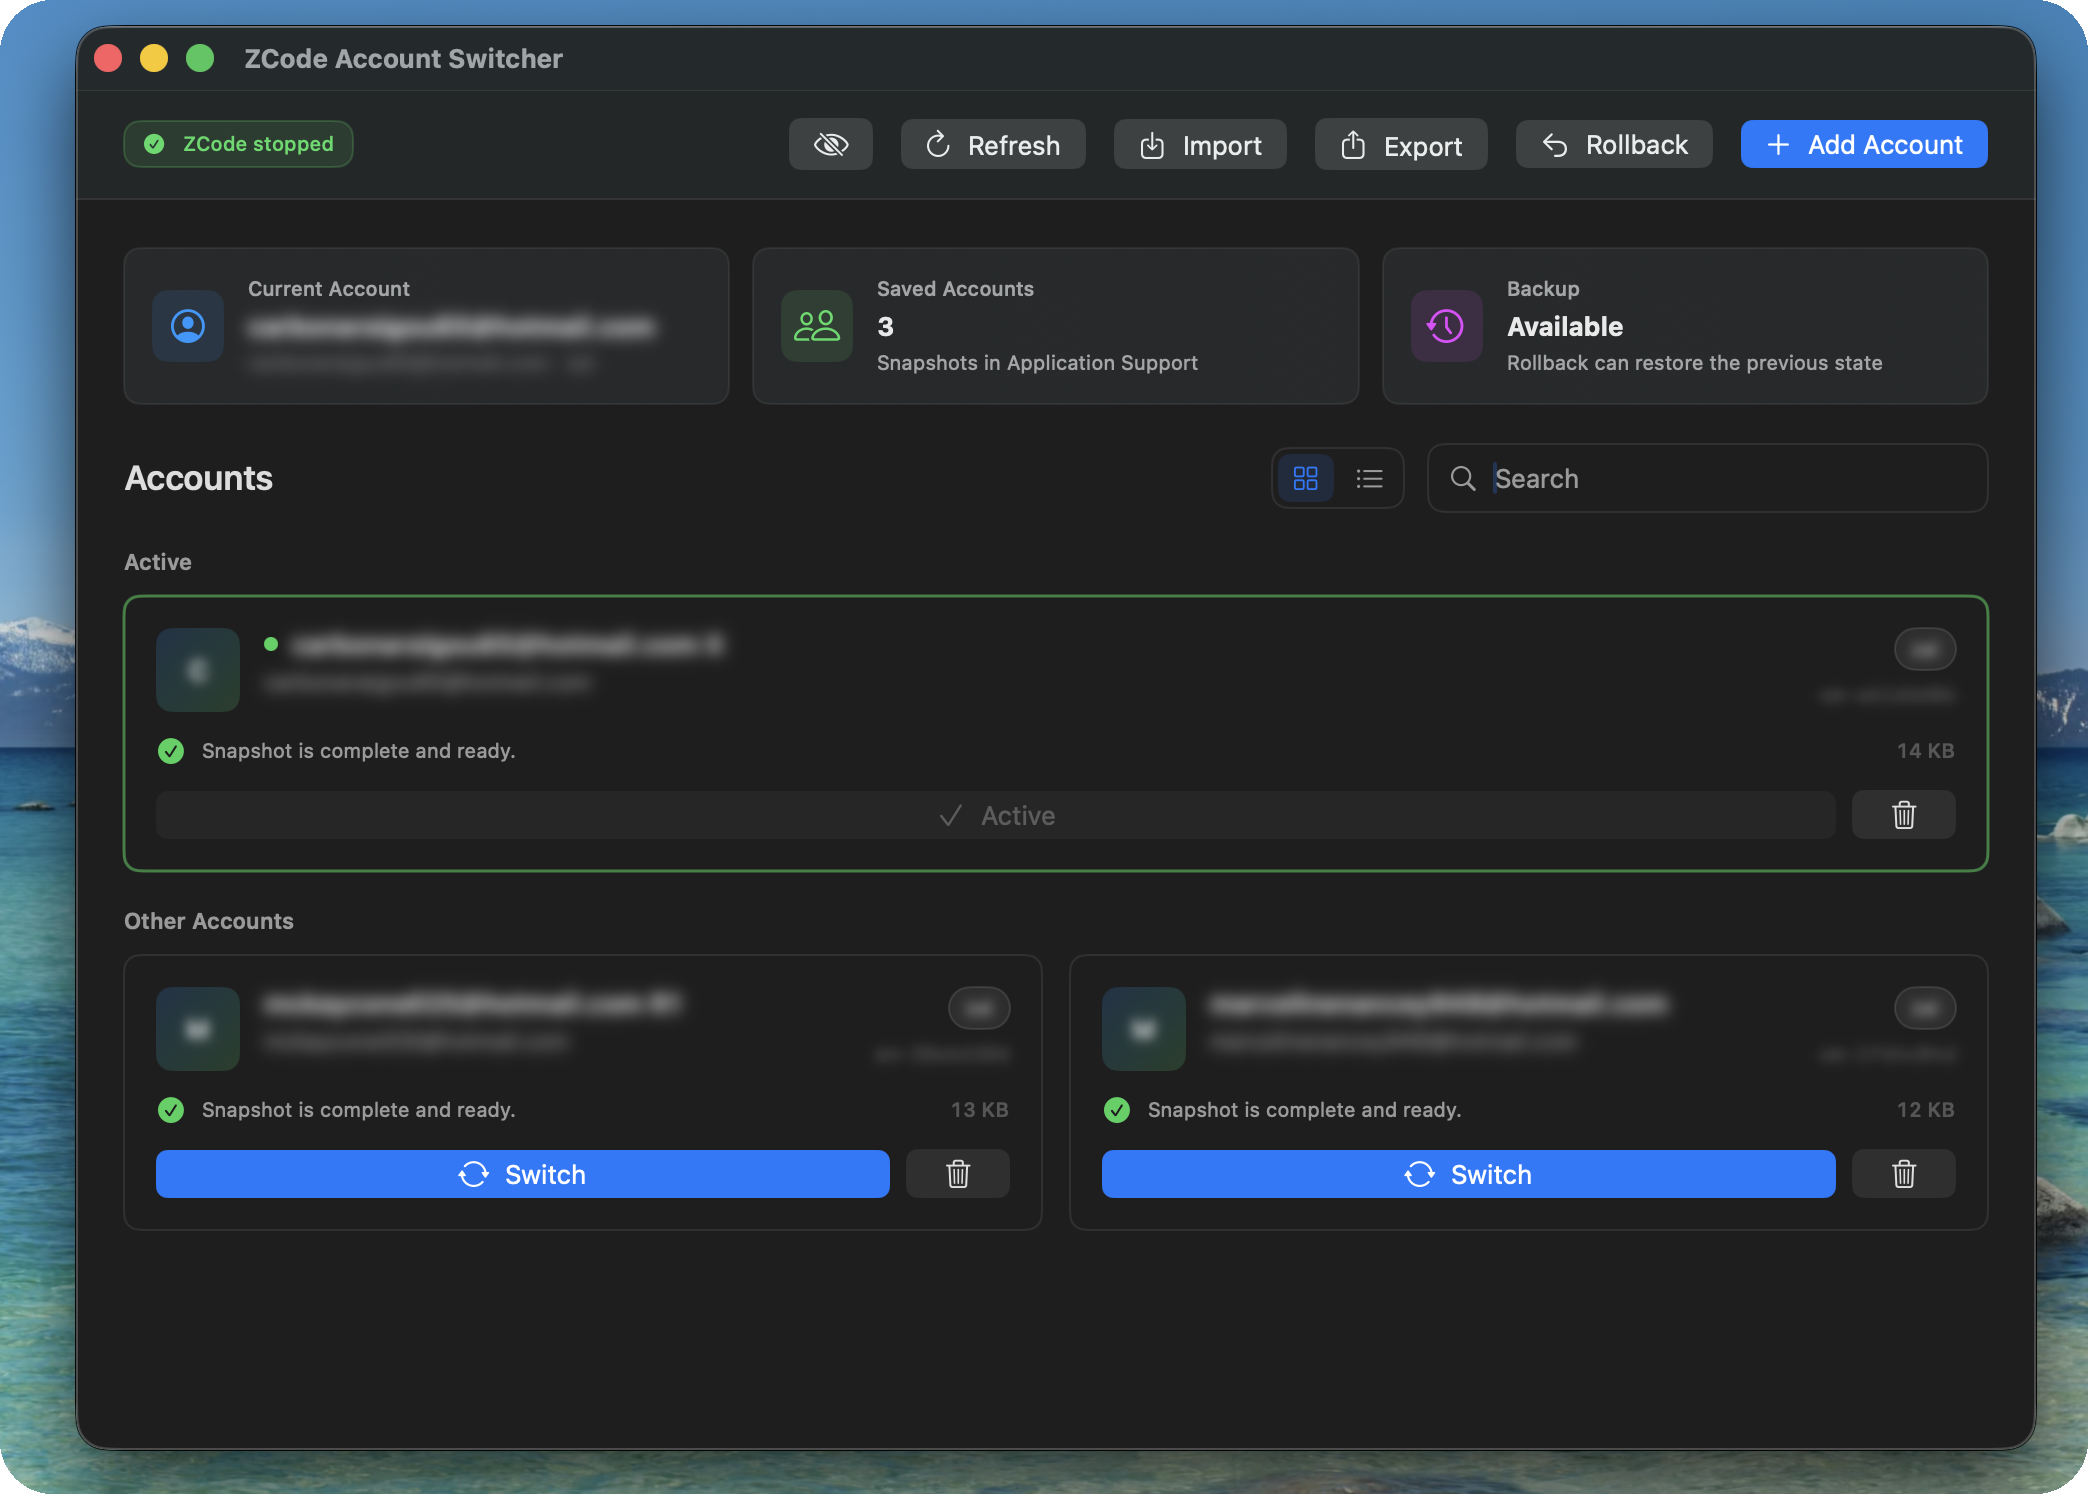
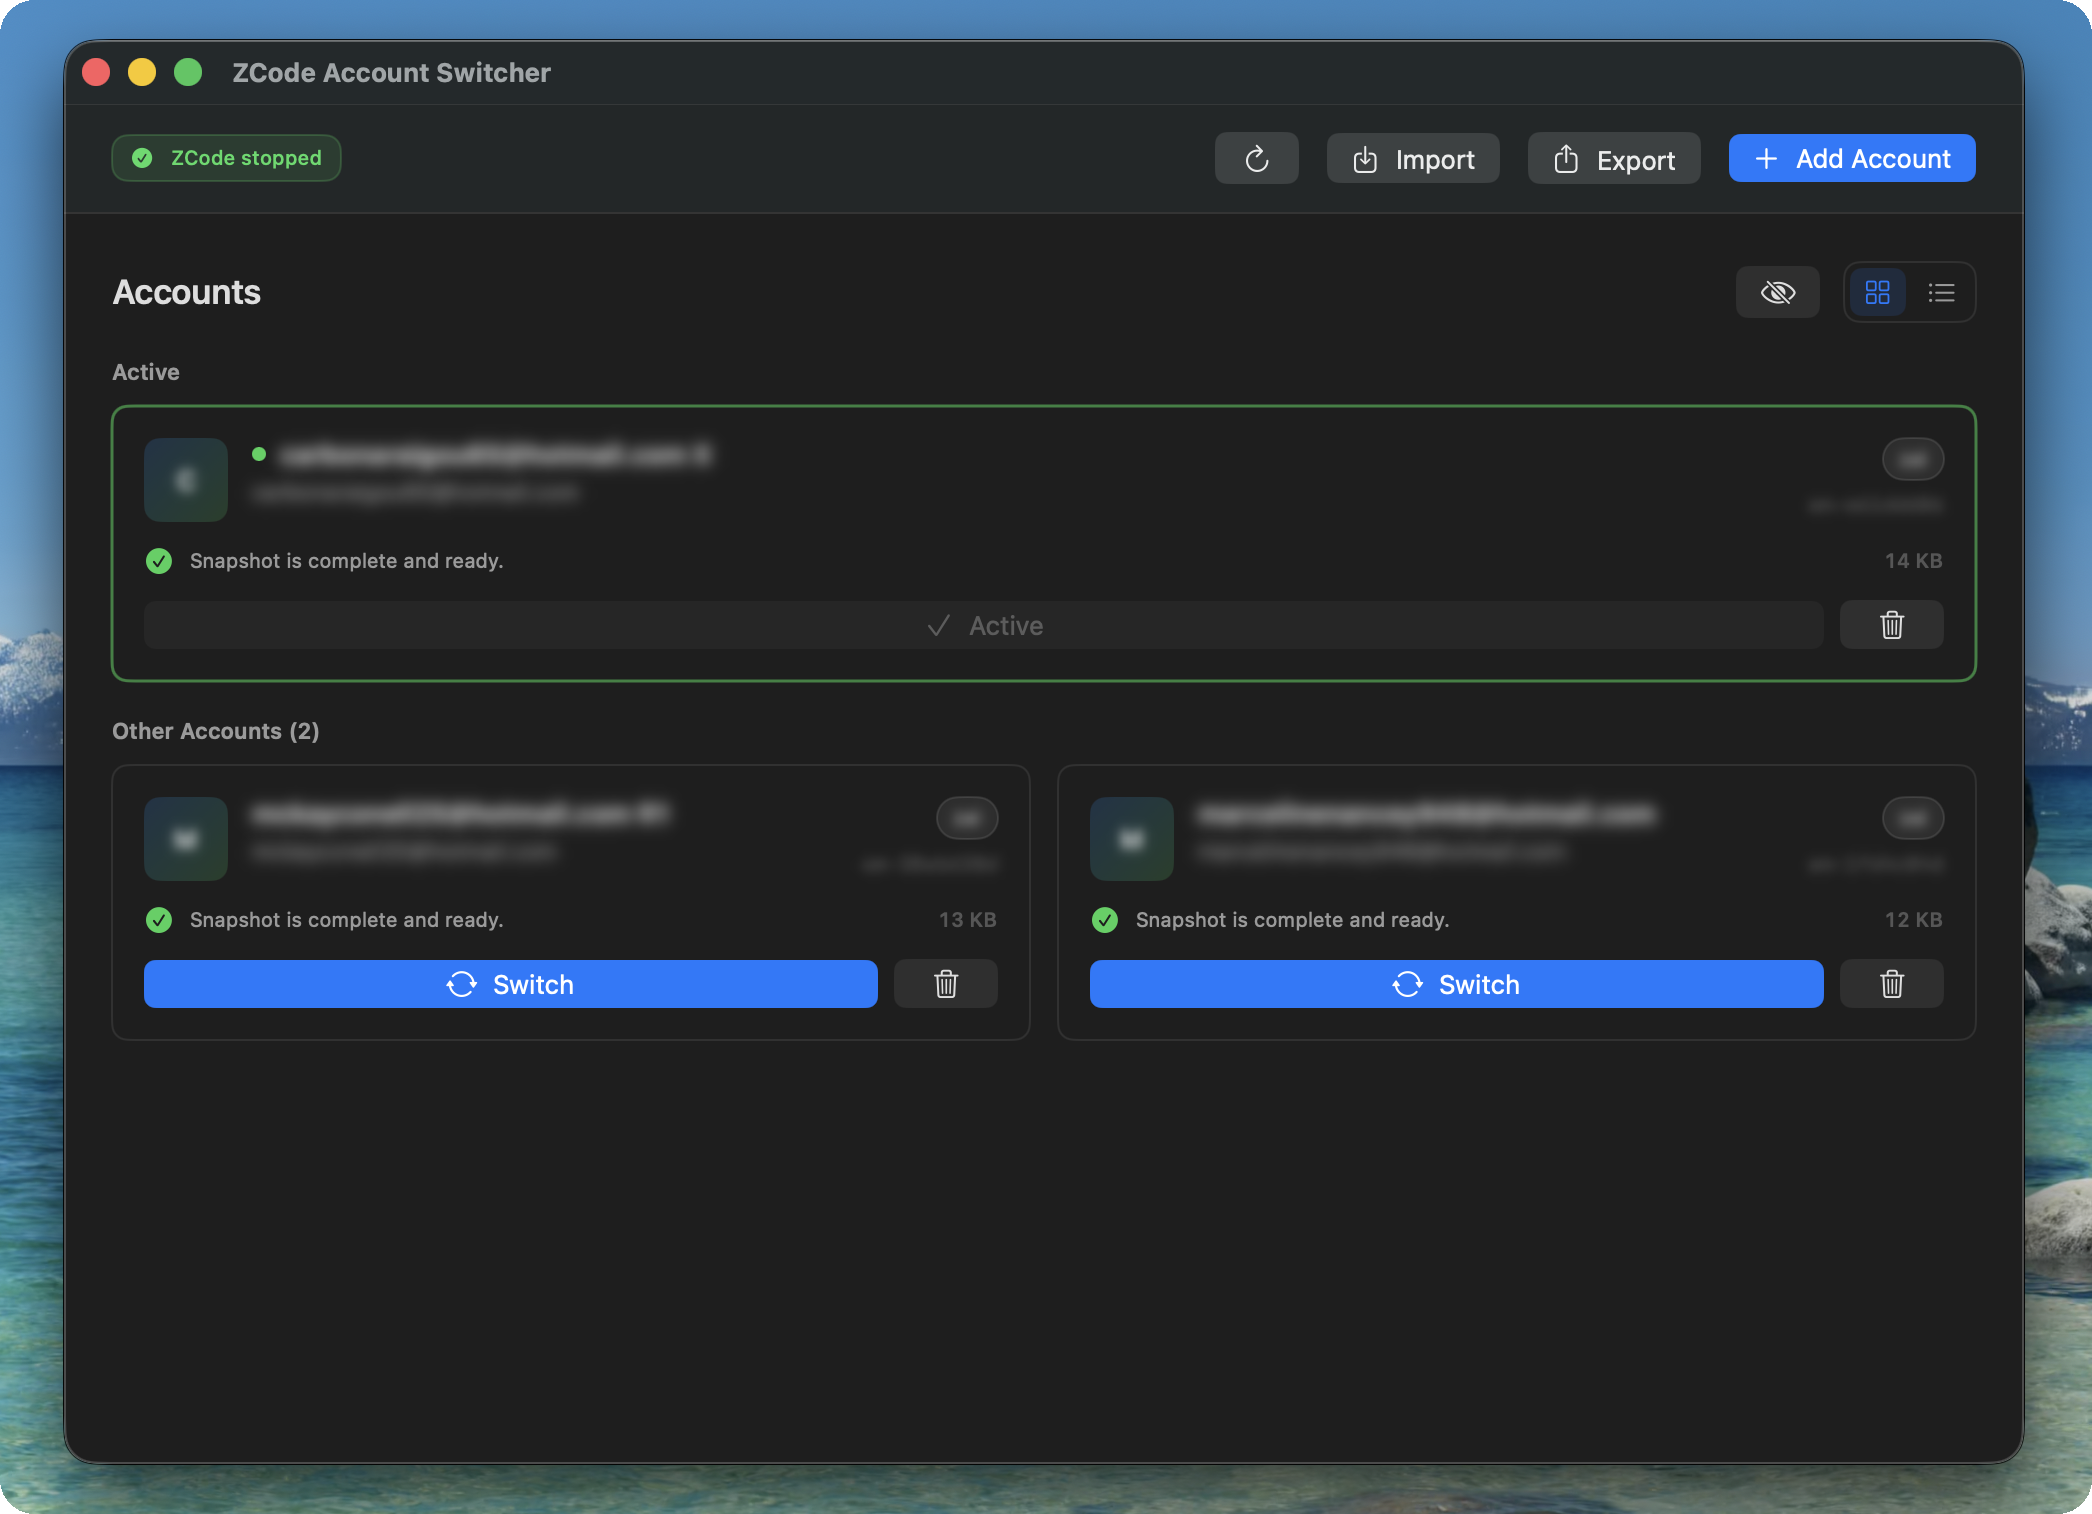
Prepare 1.0.5 release

diff --git a/Sources/ZCodeAccountSwitcher/Views/ContentView.swift b/Sources/ZCodeAccountSwitcher/Views/ContentView.swift
@@ -12,13 +12,10 @@ struct ContentView: View {
                 header
                 Divider()
                 ScrollView {
-                    VStack(alignment: .leading, spacing: 20) {
-                        overview
-                        accountSections
-                    }
-                    .padding(24)
-                    .frame(maxWidth: 1080)
-                    .frame(maxWidth: .infinity)
+                    accountSections
+                        .padding(24)
+                        .frame(maxWidth: 1080)
+                        .frame(maxWidth: .infinity)
                 }
             }
             .background(Color(nsColor: .windowBackgroundColor))
@@ -67,20 +64,13 @@ struct ContentView: View {
             Spacer()
 
             Button {
-                model.hidesPrivateAccountData.toggle()
-            } label: {
-                Image(systemName: model.hidesPrivateAccountData ? "eye.slash" : "eye")
-                    .frame(width: 18, height: 18)
-            }
-            .help(model.hidesPrivateAccountData ? "Show account data" : "Hide account data")
-            .accessibilityLabel(model.hidesPrivateAccountData ? "Show account data" : "Hide account data")
-
-            Button {
                 Task { await model.refresh() }
             } label: {
-                Label("Refresh", systemImage: "arrow.clockwise")
+                Image(systemName: "arrow.clockwise")
+                    .frame(width: 18, height: 18)
             }
             .help("Refresh")
+            .accessibilityLabel("Refresh")
 
             Button {
                 model.presentImportPanel()
@@ -97,14 +87,6 @@ struct ContentView: View {
             .help("Export")
 
             Button {
-                Task { await model.rollback() }
-            } label: {
-                Label("Rollback", systemImage: "arrow.uturn.backward")
-            }
-            .disabled(!model.status.hasLastBackup)
-            .help("Rollback")
-
-            Button {
                 model.showingAddSheet = true
             } label: {
                 Label("Add Account", systemImage: "plus")
@@ -116,42 +98,14 @@ struct ContentView: View {
         .background(.bar)
     }
 
-    private var overview: some View {
-        LazyVGrid(columns: [GridItem(.adaptive(minimum: 260), spacing: 12)], spacing: 12) {
-            OverviewCard(
-                title: "Current Account",
-                value: model.status.current?.label ?? "Not recognized",
-                detail: [model.status.current?.email, model.status.current?.provider].compactMap { $0 }.joined(separator: " · "),
-                systemImage: "person.crop.circle",
-                tint: .blue,
-                blursContent: model.hidesPrivateAccountData && model.status.current != nil
-            )
-            OverviewCard(
-                title: "Saved Accounts",
-                value: "\(model.accounts.count)",
-                detail: "Snapshots in Application Support",
-                systemImage: "person.2",
-                tint: .green
-            )
-            OverviewCard(
-                title: "Backup",
-                value: model.status.hasLastBackup ? "Available" : "None",
-                detail: model.status.hasLastBackup ? "Rollback can restore the previous state" : "A backup is created before switching",
-                systemImage: "clock.arrow.circlepath",
-                tint: model.status.hasLastBackup ? .purple : .secondary
-            )
-        }
-    }
-
     private var accountSections: some View {
         VStack(alignment: .leading, spacing: 18) {
             HStack(spacing: 12) {
                 Text("Accounts")
                     .font(.title2.weight(.semibold))
                 Spacer()
+                privacyButton
                 ViewModeControl(selection: $accountViewMode)
-                SearchField(text: $model.searchText)
-                    .frame(width: 280)
             }
 
             if model.isLoading {
@@ -163,7 +117,7 @@ struct ContentView: View {
                 }
                 .frame(maxWidth: .infinity, minHeight: 300)
             } else {
-                if let active = model.activeAccount, model.searchText.isEmpty {
+                if let active = model.activeAccount {
                     VStack(alignment: .leading, spacing: 10) {
                         Text("Active")
                             .font(.subheadline.weight(.semibold))
@@ -173,14 +127,14 @@ struct ContentView: View {
                 }
 
                 VStack(alignment: .leading, spacing: 10) {
-                    Text(model.searchText.isEmpty ? "Other Accounts" : "Results")
+                    Text("Other Accounts (\(model.otherAccounts.count))")
                         .font(.subheadline.weight(.semibold))
                         .foregroundStyle(.secondary)
 
                     otherAccountsView
 
                     if model.otherAccounts.isEmpty {
-                        Text("No matching accounts.")
+                        Text("No other accounts.")
                             .font(.callout)
                             .foregroundStyle(.secondary)
                             .frame(maxWidth: .infinity, minHeight: 120)
@@ -188,6 +142,17 @@ struct ContentView: View {
                 }
             }
         }
+    }
+
+    private var privacyButton: some View {
+        Button {
+            model.hidesPrivateAccountData.toggle()
+        } label: {
+            Image(systemName: model.hidesPrivateAccountData ? "eye.slash" : "eye")
+                .frame(width: 18, height: 18)
+        }
+        .help(model.hidesPrivateAccountData ? "Show account data" : "Hide account data")
+        .accessibilityLabel(model.hidesPrivateAccountData ? "Show account data" : "Hide account data")
     }
 
     private var deleteBinding: Binding<Bool> {

diff --git a/Sources/ZCodeAccountSwitcherCore/Stores/AccountStore.swift b/Sources/ZCodeAccountSwitcherCore/Stores/AccountStore.swift
@@ -21,8 +21,7 @@ public final class AccountStore {
     public func status() -> AppStatus {
         AppStatus(
             current: fingerprintExtractor.currentFingerprint(),
-            zcodeRunning: processService.isRunning(),
-            hasLastBackup: hasLastBackup()
+            zcodeRunning: processService.isRunning()
         )
     }
 
@@ -144,36 +143,6 @@ public final class AccountStore {
         }
         try JSONSupport.writeEncodable(meta, to: url, pretty: true)
         return meta
-    }
-
-    public func rollback(restart: Bool = true, force: Bool = true) async throws -> SwitchResult {
-        let credentialsBackup = paths.lastBackupDirectory.appendingPathComponent("credentials.json")
-        let configBackup = paths.lastBackupDirectory.appendingPathComponent("config.json")
-        guard FileManager.default.fileExists(atPath: credentialsBackup.path),
-              FileManager.default.fileExists(atPath: configBackup.path)
-        else {
-            throw AccountError.missingLoginState("No .last backup exists.")
-        }
-
-        if processService.isRunning(), !force {
-            throw AccountError.zcodeStillRunning
-        }
-        if processService.isRunning() {
-            let ok = await processService.closeZCode()
-            guard ok else { throw AccountError.zcodeCloseTimeout }
-        }
-
-        try writeSnapshotExact(AccountSnapshot(
-            credentials: String(contentsOf: credentialsBackup, encoding: .utf8),
-            config: String(contentsOf: configBackup, encoding: .utf8)
-        ))
-        try restoreLastSettingIfPresent()
-
-        var launched = false
-        if restart {
-            launched = (try? await processService.launchZCode()) ?? false
-        }
-        return SwitchResult(restarted: launched)
     }
 
     public func exportAccounts(ids: [String]? = nil) throws -> AccountsExportPayload {
@@ -366,11 +335,6 @@ public final class AccountStore {
         }
         try FileManager.default.createDirectory(at: paths.settingFile.deletingLastPathComponent(), withIntermediateDirectories: true)
         try JSONSupport.atomicWrite(Data(contentsOf: backup), to: paths.settingFile)
-    }
-
-    private func hasLastBackup() -> Bool {
-        FileManager.default.fileExists(atPath: paths.lastBackupDirectory.appendingPathComponent("credentials.json").path) &&
-        FileManager.default.fileExists(atPath: paths.lastBackupDirectory.appendingPathComponent("config.json").path)
     }
 
     private func ensureStore() throws {

diff --git a/Sources/ZCodeAccountSwitcher/App/AccountAppModel.swift b/Sources/ZCodeAccountSwitcher/App/AccountAppModel.swift
@@ -7,10 +7,9 @@ final class AccountAppModel: ObservableObject {
     private static let hidesPrivateAccountDataKey = "hidesPrivateAccountData"
 
     @Published var accounts: [AccountRecord] = []
-    @Published var status = AppStatus(current: nil, zcodeRunning: false, hasLastBackup: false)
+    @Published var status = AppStatus(current: nil, zcodeRunning: false)
     @Published var isLoading = false
     @Published var isBusy = false
-    @Published var searchText = ""
     @Published var toast: ToastMessage?
     @Published var showingAddSheet = false
     @Published var showingDeleteConfirmation: AccountRecord?
@@ -31,22 +30,6 @@ final class AccountAppModel: ObservableObject {
         self.store = store
     }
 
-    var filteredAccounts: [AccountRecord] {
-        let query = searchText.trimmingCharacters(in: .whitespacesAndNewlines).lowercased()
-        guard !query.isEmpty else { return accounts }
-        return accounts.filter { record in
-            [
-                record.meta.displayName,
-                record.meta.email,
-                record.meta.name,
-                record.meta.provider,
-                record.id
-            ]
-            .compactMap { $0?.lowercased() }
-            .contains { $0.contains(query) }
-        }
-    }
-
     var currentAccountId: String? {
         status.current?.emailShortId.isEmpty == false ? status.current?.emailShortId : status.current?.shortId
     }
@@ -57,7 +40,7 @@ final class AccountAppModel: ObservableObject {
     }
 
     var otherAccounts: [AccountRecord] {
-        filteredAccounts.filter { $0.id != currentAccountId }
+        accounts.filter { $0.id != currentAccountId }
     }
 
     func refresh() async {
@@ -110,15 +93,6 @@ final class AccountAppModel: ObservableObject {
             await reloadStatusAndList()
         } catch {
             showToast(.error, privacySafeErrorMessage(for: error))
-        }
-    }
-
-    func rollback() async {
-        await runBusy {
-            let result = try await store.rollback(restart: true, force: true)
-            let restartText = result.restarted ? "ZCode restarted." : "Login state restored. Launch ZCode manually."
-            showToast(.success, "Rolled back to previous login state. \(restartText)")
-            await reloadStatusAndList()
         }
     }
 

diff --git a/Sources/ZCodeAccountSwitcher/App/ZCodeAccountSwitcherApp.swift b/Sources/ZCodeAccountSwitcher/App/ZCodeAccountSwitcherApp.swift
@@ -38,11 +38,6 @@ struct ZCodeAccountSwitcherApp: App {
                     Task { await model.refresh() }
                 }
                 .keyboardShortcut("r")
-
-                Button("Rollback") {
-                    Task { await model.rollback() }
-                }
-                .disabled(!model.status.hasLastBackup)
             }
         }
     }

diff --git a/Sources/ZCodeAccountSwitcherCore/Models/AccountModels.swift b/Sources/ZCodeAccountSwitcherCore/Models/AccountModels.swift
@@ -184,11 +184,9 @@ public struct AccountFingerprint: Codable, Equatable {
 public struct AppStatus: Equatable {
     public var current: AccountFingerprint?
     public var zcodeRunning: Bool
-    public var hasLastBackup: Bool
 
-    public init(current: AccountFingerprint?, zcodeRunning: Bool, hasLastBackup: Bool) {
+    public init(current: AccountFingerprint?, zcodeRunning: Bool) {
         self.current = current
         self.zcodeRunning = zcodeRunning
-        self.hasLastBackup = hasLastBackup
     }
 }

diff --git a/README.md b/README.md
@@ -27,7 +27,6 @@ XcodeGen.
 - Lists saved accounts with basic health information.
 - Switches accounts by closing ZCode, backing up the current state, replacing the
   login files atomically, and relaunching ZCode.
-- Supports rollback to the previous login state.
 - Supports OAuth-based account capture and local import/export.
 - Blurs private account details in the UI when privacy mode is enabled.
 
@@ -42,7 +41,7 @@ The app reads and writes these ZCode files:
 - `~/.zcode/v2/setting.json`
 - `~/.zcode/v2/coding-plan-cache.json`
 
-Saved snapshots and rollback backups are stored under:
+Saved snapshots and switch backups are stored under:
 
 - `~/Library/Application Support/ZCode Account Switcher/accounts`
 - `~/Library/Application Support/ZCode Account Switcher/.last`

diff --git a/CONTRIBUTING.md b/CONTRIBUTING.md
@@ -14,7 +14,7 @@ xcodebuild test \
   -destination 'platform=macOS'
 ```
 
-Do not commit local account data, rollback backups, `.build`, `dist`, Xcode user
+Do not commit local account data, switch backups, `.build`, `dist`, Xcode user
 state, logs, exported snapshots, or environment files.
 
 `project.yml` is the source of truth for the Xcode project. Regenerate